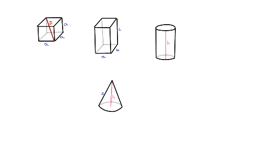
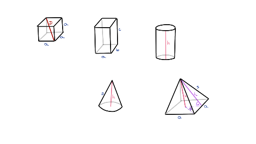
added pyramid

Changed region(s): [[0.625, 0.5278, 0.8125, 0.8333]]

diff --git a/docs/geometry-volume.html b/docs/geometry-volume.html
@@ -220,7 +220,7 @@ ul.task-list li input[type="checkbox"] {
 <div class="cell">
 
 </div>
-<p><em>Version vom February 16, 2023 um 11:17:35</em></p>
+<p><em>Version vom February 20, 2023 um 21:06:53</em></p>
 <p>In diesem Abschnitt wollen wir einmal das Volumen <span class="math inline">\(V\)</span>, sowie die Oberfläche <span class="math inline">\(O\)</span> und die Grundfläche <span class="math inline">\(G\)</span> von verschiedenen geometrischen Objekten berechnen. Wie so oft musst du dir üerlegen, was bei deinem Objekt jetzt die Grundfläche ist. Aber das ist dan meist im konkreten Fall sehr klar.</p>
 <section id="würfel" class="level2" data-number="5.1">
 <h2 data-number="5.1" class="anchored" data-anchor-id="würfel"><span class="header-section-number">5.1</span> Würfel</h2>
@@ -348,6 +348,12 @@ G = r^2 \cdot \pi
 </section>
 <section id="pyramide" class="level2" data-number="5.6">
 <h2 data-number="5.6" class="anchored" data-anchor-id="pyramide"><span class="header-section-number">5.6</span> Pyramide</h2>
+<p>Die Pyramide ist im Prinzip ein Kegel auf einer quadratischen Grundfläche. So häufig nutzen wir die Pyramide nicht in der praktischen Anwendung, aber wir können an der Pyramide gut rumrechnen und uns nochmal mit den Winkelsätzen beschäftigen.</p>
+<div class="quarto-figure quarto-figure-center">
+<figure class="figure">
+<p><img src="images/pyramide.png" class="img-fluid figure-img" style="width:40.0%"></p>
+</figure>
+</div>
 <p>Das Volumen <span class="math inline">\(V\)</span> einer Pyramide berechnet sich dann wie folgt.</p>
 <p><span class="math display">\[
 V = \cfrac{1}{3} \cdot h \cdot a^2
@@ -374,6 +380,13 @@ h = \sqrt{h_a^2 \cdot \left(\cfrac{a}{2}\right)^2}
 \tan(\alpha) = \cfrac{h}{a/2}
 \]</span> <span class="math display">\[
 h = \tan(\alpha) \cdot a/2
+\]</span></p>
+<p>Die Diagonale durch die Mitte der Grundfläche können wir wie folgt berechnen.</p>
+<p><span class="math display">\[
+d = \sqrt{a^2 + a^2} = \sqrt{2} \cdot a
+\]</span> Dann ergibt sich der Winkel <span class="math inline">\(\beta\)</span> am der Seitenspitze der Pyramide wie folgt.</p>
+<p><span class="math display">\[
+\beta = \arctan\left(\cfrac{h}{d/2}\right)
 \]</span></p>
 
 
